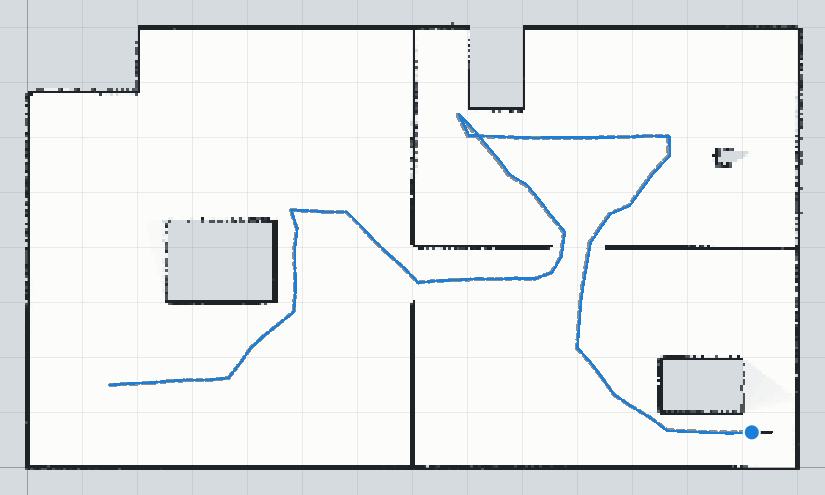
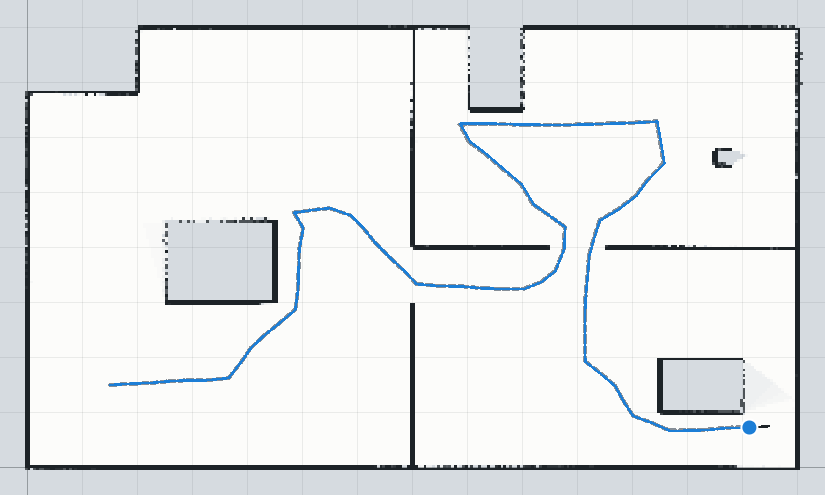
SLAM 4 à 7 fois plus rapide ; frontières par utilité en option
- Suivi du SLAM par Gauss-Newton sur la carte locale d'abord (1-2 ms), la
  multi-résolution seulement si moins de 70 % des points collent : salle
  253 -> 38 ms par scan à précision égale (0,6 cm), couloir 116 -> 33 ms
  (ATE 27 -> 30 cm, arrivée toujours à 2 cm).
- Exploration : choix de la frontière par utilité (Holz et al. 2010) en
  option ; pas de gain mesuré sur nos scènes, la plus proche reste le
  défaut. Banc d'essai relancé : 12 explorations sur 12 réussies.
- Docs : jour3 (amélioration du SLAM), journal, passation (dont le
  prototype Labo Carto dans ../carto-edu).

diff --git a/src/core/explore.js b/src/core/explore.js
@@ -6,7 +6,9 @@
 //      chaque cellule atteignable et chemin le plus court ;
 //   3. cellules frontières : libres, atteignables, avec une voisine inconnue (bord de ce qu'on a
 //      vu) ; regroupées en zones, les petites zones (bruit) sont ignorées ;
-//   4. but : la cellule la plus proche de la zone frontière la plus proche ;
+//   4. but : la zone frontière la plus proche (Yamauchi) ou, en option, la plus utile,
+//      longueur / (distance + 1 m) (Holz et al., 2010), et sa cellule la plus proche du robot ;
+//      sur nos scènes, l'utilité n'a pas raccourci le trajet (docs/jour3_explore.md) ;
 //   5. commande : le point le plus loin du chemin encore en vue directe (au plus `maxStep`) ;
 //      tourner vers lui si l'écart dépasse `turnTol`, sinon avancer, sans s'approcher de l'obstacle
 //      le plus proche droit devant dans le dernier scan (sécurité si la carte est en retard).
@@ -31,6 +33,7 @@ export const DEFAULT_EXPLORE = Object.freeze({
   maxRange: 12, // m : frontières plus loin du départ ignorées (faisceaux sortis par les vitres)
   startFree: 0.3, // m : autour du robot, on peut passer même si la carte n'est pas sûre (dégagement)
   maxTries: 12, // commandes vers un même but sans l'atteindre : but abandonné
+  selection: 'nearest', // 'nearest' : la plus proche ; 'utility' : longueur / (distance + 1 m)
 });
 
 const N4 = [
@@ -140,8 +143,9 @@ export function planExploration(grid, pose, points = [], home = pose, options = 
   const frontiers = zones.map((z) => ({ ...z.center, size: z.size }));
   if (!zones.length) return { done: true, reason: 'plus de frontière atteignable : carte terminée', path: [], frontiers };
 
-  // 4. zone la plus proche ; chemin du robot au but
-  const zone = zones.reduce((a, b) => (b.cost < a.cost ? b : a));
+  // 4. zone choisie ; chemin du robot au but
+  const utility = (z) => (o.selection === 'nearest' ? -z.cost : (z.size * res) / (z.cost * res + 1));
+  const zone = zones.reduce((a, b) => (utility(b) > utility(a) ? b : a));
   const cellsPath = [];
   for (let k = zone.goal; k >= 0; k = parent[k]) cellsPath.push(k);
   cellsPath.reverse();

diff --git a/src/core/slam.js b/src/core/slam.js
@@ -29,6 +29,8 @@ import { optimizePoseGraph } from './posegraph.js';
 export const DEFAULT_SLAM = Object.freeze({
   window: { xyRange: 0.5, thRange: 20 }, // recherche locale autour de la prédiction
   minInliers: 0.5, // part des points du scan sur la carte pour accepter le suivi
+  fastTracking: true, // suivi par Gauss-Newton d'abord, multi-résolution en secours
+  fastInliers: 0.7, // part des points sur la carte pour se contenter du suivi rapide
   relocalize: true, // relocalisation globale si le suivi échoue
   keyDist: 0.2, // m : nouveau scan clé après ce déplacement
   keyAngle: 10, // degrés : ou cette rotation
@@ -164,7 +166,13 @@ export class Slam {
     // 1. prédiction ; 2. suivi sur la carte locale
     const predicted = odom ? composePoses(this.last, odom) : { ...this.last };
     const ref = this.localReference();
-    const m = localize(ref, points, predicted, 'multires', this.o.window);
+    // suivi rapide d'abord (Gauss-Newton sur la carte locale, ~1 ms, à la manière de Hector SLAM) ;
+    // la recherche multi-résolution (~100 ms) seulement s'il ne colle pas assez
+    let m = this.o.fastTracking ? localize(ref, points, predicted, 'gaussnewton') : null;
+    if (!m || m.inliers < this.o.fastInliers) {
+      const mr = localize(ref, points, predicted, 'multires', this.o.window);
+      if (!m || mr.inliers >= m.inliers) m = mr;
+    }
     const i = localize(ref, points, m.pose, 'icp');
     let best = i.inliers >= m.inliers ? i : m;
     let mode = 'suivi';

diff --git a/docs/passation.md b/docs/passation.md
@@ -7,7 +7,7 @@ Fichier à lire en premier pour reprendre le projet (personne ou IA). Mis à jou
   historique, outils + instructions, synthèse personnelle).
 - Langage : JavaScript pur (Node 22+, aucune dépendance) ; application web `node serve.mjs`
   (port 8080, ou 8081 s'il est pris) ; tests `node --test "test/*.test.js"` (110 tests, tous verts
-  le 4 novembre ; 118 depuis l'exploration autonome).
+  le 4 novembre ; 124 depuis les méthodes de l'état de l'art).
 - Le dossier `ld06-slam/ld06-slam/` (non suivi) est un clone vide (« Initial commit ») sans
   rapport avec le projet : à ignorer ou supprimer.
 
@@ -23,10 +23,20 @@ Fichier à lire en premier pour reprendre le projet (personne ou IA). Mis à jou
 | 2 | Localisation sur grid map, carte vectorielle, scan de référence + évaluation chiffrée | Fait : 6 méthodes (brute force, gradient, multi-résolution, probabiliste, ICP, calcul direct), banc d'essai simulé et réel, sensibilité à l'initialisation, localisation globale | `src/core/localization.js`, `globalloc.js`, `docs/jour2*.md` |
 | 3 | SLAM (localisation + cartographie simultanées) | Fait : suivi sur carte locale, relocalisation, scans clés, graphe de poses Gauss-Newton avec fermeture de boucle ; validé en simulation (salle : 0,6 cm ; couloir 54 m : 27 cm avec boucle) | `src/core/slam.js`, `posegraph.js`, `docs/jour3*.md` |
 | 3 | Carte complète de la salle | Carte de référence faite à partir des 18 scans réels recalés (`data/reference/`) ; **pas encore** produite par le SLAM lui-même | voir « À faire » |
-| 3 | Bonus : déplacer le robot automatiquement | Fait en simulation : exploration par frontières sur la carte du SLAM (6 départs sur 6 réussis, couverture 98-100 %, 0 collision, 1-2 cm d'erreur) ; pilotage Wi-Fi du vrai robot (ESP32RobotControl) avec étalonnage automatique des vitesses, vérifié avec un faux robot (`scripts/mock-robot.mjs`) ; **pas encore essayé sur le vrai robot** | `src/core/explore.js`, `docs/jour3.md` (§ Bonus), `docs/jour3_explore.md` |
+| 3 | Bonus : déplacer le robot automatiquement | Fait en simulation : exploration par frontières sur la carte du SLAM (6 départs sur 6 réussis, couverture 99,6-100 %, 0 collision, 1-2 cm d'erreur) ; pilotage Wi-Fi du vrai robot (ESP32RobotControl) avec étalonnage automatique des vitesses, vérifié avec un faux robot (`scripts/mock-robot.mjs`) ; **pas encore essayé sur le vrai robot** | `src/core/explore.js`, `docs/jour3.md` (§ Bonus), `docs/jour3_explore.md` |
 
 Comptes rendus : `docs/jour1.md`, `docs/jour2.md`, `docs/jour3.md` ; algorithmes expliqués :
-`docs/algorithmes.md` ; erreurs rencontrées et corrections : `docs/journal.md`.
+`docs/algorithmes.md` ; erreurs rencontrées et corrections : `docs/journal.md` ; **état de l'art**
+(articles, thèses, projets GitHub) : `docs/etat_de_l_art.md`.
+
+Ajouts du 4 novembre (soir), après l'état de l'art :
+- 3 méthodes de localisation de plus (`src/core/advancedmatch.js`) : PL-ICP (Censi 2008), NDT
+  (Biber 2003), Gauss-Newton sur la carte (Hector 2011), passées dans les bancs d'essai du jour 2
+  (`docs/jour2.md`, section « Ajout ») ; le Gauss-Newton réussit 100 % en simulation en 1-2 ms ;
+- SLAM 4 à 7 fois plus rapide : suivi par Gauss-Newton d'abord, multi-résolution en secours
+  (`docs/jour3.md`, section « Amélioration du SLAM ») ;
+- export de la grid map au format ROS (PGM + YAML) dans l'appli et en ligne de commande ;
+- exploration : choix de la frontière par utilité essayé, sans gain, gardé en option.
 
 Constat important (jour 3) : sur les 18 clichés réels (épars, deux hauteurs, salle presque
 symétrique), un SLAM parti de zéro est ambigu. Il faut un **trajet continu au sol**, un scan
@@ -60,14 +70,15 @@ le vrai robot.
 
 ## Idée pour plus tard : une application pour aider les étudiants
 
-Proposée par Yohan le 4 novembre, **à faire après le rendu du TP** (ne pas mélanger avec le dépôt
-du module tant que le rendu n'est pas fait).
+Proposée par Yohan le 4 novembre. **Commencée** le 4 novembre dans le dossier voisin
+`../carto-edu` (dépôt git séparé, local, pas encore sur GitHub) : état de l'art des outils
+pédagogiques (`ETAT_DE_L_ART.md`), conception et parcours de 9 fiches (`CONCEPTION.md`), prototype
+web avec 4 fiches (lidar → points, grid map pas à pas, ICP pas à pas, filtre particulaire avec
+MCL augmenté). Lancer : `node serve.mjs` dans `carto-edu`, puis http://localhost:8090/.
+Son dossier `core/` est une copie de `src/core` : la recopier après chaque changement du TP.
 
 - Idée : réutiliser `src/core/` et l'application web pour un outil pédagogique (visualiser pas à
   pas grid map, segments, scan matching, SLAM ; charger ses propres scans LD06 ; exercices).
-- Préalable : un **état de l'art** de ce qui existe déjà (outils pédagogiques et simulateurs
-  SLAM 2D en ligne, ROS/rviz, Gazebo, les outils du module MapTool et RobotControl, cours
-  interactifs, bibliothèques comme les implémentations Python de PythonRobotics, etc.) pour
-  trouver ce qui manque vraiment avant de coder.
-- À décider avec Yohan : public visé (ce module seulement ou plus large), web seul ou avec le
-  robot, dépôt séparé.
+- Suite : fiches 3, 6, 7, 8, 9 (segments, comparaison des méthodes, SLAM, exploration, mes
+  données), exercices vérifiés automatiquement, publication (GitHub Pages) après le rendu.
+- À décider avec Yohan : public visé (ce module seulement ou plus large), nom, dépôt GitHub.

diff --git a/docs/jour3.md b/docs/jour3.md
@@ -123,16 +123,22 @@ dérive de cap par mètre), le SLAM ne reçoit que la commande.
 
 | Scène | Départs réussis | Couverture | Collisions | Erreur de pose (ATE) | Pas / distance |
 | --- | --- | --- | --- | --- | --- |
-| Salle de classe 10 m × 8 m | 3 / 3 | 100 % | 0 | 0,7 à 1,2 cm | 30 à 38 pas, 7 à 9 m |
-| Trois pièces reliées par des portes de 1 m | 3 / 3 | 98,3 à 100 % | 0 | 1,5 à 1,9 cm | 102 à 134 pas, 27 à 33 m |
+| Salle de classe 10 m × 8 m | 3 / 3 | 100 % | 0 | 0,7 à 1,9 cm | 33 à 39 pas, 8 à 10 m |
+| Trois pièces reliées par des portes de 1 m | 3 / 3 | 99,6 à 100 % | 0 | 1,0 à 1,1 cm | 104 à 149 pas, 27 à 34 m |
+
+(Chiffres avec le suivi rapide du SLAM, voir plus bas ; 55 à 150 ms par pas, SLAM compris.)
 
 | Trois pièces : exploration en cours (frontières en vert, chemin prévu en orange) | Carte finale |
 | --- | --- |
 | ![en cours](img/j3_explo_pieces_en_cours.png) | ![finale](img/j3_explo_pieces.png) |
 
 - La frontière la plus proche n'est pas toujours la plus utile : le robot fait parfois des
-  allers-retours entre deux pièces (trajet de 27 à 33 m pour une surface de 112 m²). Choisir la
-  zone selon sa taille et sa distance réduirait le trajet.
+  allers-retours entre deux pièces (trajet de 27 à 34 m pour une surface de 112 m²). Choisir la
+  zone selon son utilité, longueur / (distance + 1 m) (Holz et al., 2010), **ne raccourcit pas**
+  le trajet en moyenne (94 m au total sur les trois départs, contre 94 m) : il gagne sur certains
+  départs, perd sur d'autres ; une grande frontière lointaine attire le robot avant qu'il ait fini
+  la pièce où il est, et il doit y revenir. Gardé en option ; un vrai gain demanderait de tenir
+  compte de la pièce en cours ou de planifier l'ordre de visite.
 - Le robot passe par les portes de 1 m sans les toucher : 1 m − 2 × 25 cm laisse un couloir de
   50 cm au centre du robot.
 
@@ -155,3 +161,23 @@ parties de 0,25 m/s et 90 °/s, convergent vers 0,31 m/s et 72 °/s pour des vit
 Limites attendues : les vitres (faisceaux qui sortent de la salle : frontières ignorées au-delà de
 12 m du départ), les pieds de chaises et de tables fins, vus par peu de points, et la durée des
 commandes, très approximative au début.
+
+## Amélioration du SLAM : suivi rapide (4 novembre)
+
+D'après le banc d'essai du jour 2, le Gauss-Newton sur la carte (à la manière de Hector SLAM) se
+recale en 1 à 2 ms. Le suivi du SLAM l'essaie d'abord, depuis la prédiction ; la recherche
+multi-résolution (~100 ms) ne sert plus que si moins de 70 % des points collent à la carte locale
+(`fastTracking`, `fastInliers` dans `slam.js`).
+
+| Scène | Avant : ATE / temps par scan | Après : ATE / temps par scan |
+| --- | --- | --- |
+| Salle, avec odométrie | 0,7 cm / 253 ms | 0,6 cm / **38 ms** |
+| Salle, sans odométrie | 0,6 cm / 263 ms | 0,6 cm / **68 ms** |
+| Couloir 54 m, boucle et précision par direction | 27,1 cm / 116 ms | 30,1 cm / **33 ms** |
+
+Le SLAM est **4 à 7 fois plus rapide** pour la même précision dans la salle ; dans le long couloir,
+l'erreur moyenne augmente un peu (27 → 30 cm, arrivée toujours à 2 cm) : le Gauss-Newton accepte
+des recalages un peu moins justes que la multi-résolution suivie de l'ICP. Pour le robot réel, la
+vitesse compte : un scan traité en 40 ms laisse le temps de suivre le lidar à 10 tours par seconde.
+Le tableau « Résultats sur trajets simulés » plus haut est celui d'avant ce changement ;
+[jour3_slam.md](jour3_slam.md) donne les chiffres actuels.

diff --git a/docs/jour3_explore.md b/docs/jour3_explore.md
@@ -5,22 +5,30 @@ commandes (méthode des frontières sur la grid map du SLAM). Mouvement vrai : 1
 la distance et l'angle, 5 cm de glissement latéral et 1,5° de dérive de cap par mètre ; le SLAM
 ne reçoit que la commande. **Couverture** : part du sol libre de la scène (grille de 10 cm, hors
 meubles et murs) que la carte a vue libre. **Réussite** : couverture ≥ 95 % sans collision.
+**Choix de la frontière** : la plus proche (Yamauchi 1997) ou la plus utile, longueur / (distance + 1 m)
+(Holz et al. 2010).
 
 ## A. Salle de classe simulée (10 m × 8 m)
 
-| Départ | Pas | Distance | Couverture | Collisions | ATE | Erreur finale | Boucles | Temps / pas | Réussite |
-| --- | --- | --- | --- | --- | --- | --- | --- | --- | --- |
-| (1.5 ; 2.2 ; 0°) | 30 | 7.4 m | **100.0 %** | 0 | 0.9 cm | 0.9 cm | 1 | 274 ms | oui |
-| (8 ; 6 ; 180°) | 38 | 8.9 m | **100.0 %** | 0 | 0.7 cm | 1.0 cm | 1 | 244 ms | oui |
-| (5 ; 1 ; 90°) | 34 | 8.6 m | **100.0 %** | 0 | 1.2 cm | 1.0 cm | 0 | 237 ms | oui |
+| Choix de la frontière | Départ | Pas | Distance | Couverture | Collisions | ATE | Erreur finale | Boucles | Temps / pas | Réussite |
+| --- | --- | --- | --- | --- | --- | --- | --- | --- | --- | --- |
+| la plus proche | (1.5 ; 2.2 ; 0°) | 33 | 8.0 m | **100.0 %** | 0 | 0.7 cm | 1.5 cm | 2 | 79 ms | oui |
+| la plus proche | (8 ; 6 ; 180°) | 35 | 8.4 m | **100.0 %** | 0 | 1.9 cm | 3.4 cm | 0 | 56 ms | oui |
+| la plus proche | (5 ; 1 ; 90°) | 39 | 10.1 m | **100.0 %** | 0 | 0.7 cm | 1.3 cm | 0 | 96 ms | oui |
+| utilité | (1.5 ; 2.2 ; 0°) | 22 | 6.0 m | **100.0 %** | 0 | 1.0 cm | 1.7 cm | 0 | 55 ms | oui |
+| utilité | (8 ; 6 ; 180°) | 34 | 8.8 m | **100.0 %** | 0 | 2.7 cm | 4.8 cm | 0 | 54 ms | oui |
+| utilité | (5 ; 1 ; 90°) | 39 | 10.1 m | **100.0 %** | 0 | 0.7 cm | 1.3 cm | 0 | 96 ms | oui |
 
 ## B. Trois pièces reliées par des portes de 1 m (14 m × 8 m)
 
-| Départ | Pas | Distance | Couverture | Collisions | ATE | Erreur finale | Boucles | Temps / pas | Réussite |
-| --- | --- | --- | --- | --- | --- | --- | --- | --- | --- |
-| (1.5 ; 1.5 ; 0°) | 102 | 27.0 m | **100.0 %** | 0 | 1.9 cm | 2.0 cm | 8 | 347 ms | oui |
-| (5.5 ; 6.5 ; -90°) | 128 | 33.1 m | **99.9 %** | 0 | 1.9 cm | 1.0 cm | 14 | 348 ms | oui |
-| (12 ; 6.5 ; 180°) | 134 | 30.0 m | **98.3 %** | 0 | 1.5 cm | 0.9 cm | 15 | 352 ms | oui |
+| Choix de la frontière | Départ | Pas | Distance | Couverture | Collisions | ATE | Erreur finale | Boucles | Temps / pas | Réussite |
+| --- | --- | --- | --- | --- | --- | --- | --- | --- | --- | --- |
+| la plus proche | (1.5 ; 1.5 ; 0°) | 104 | 26.7 m | **100.0 %** | 0 | 1.1 cm | 1.1 cm | 8 | 147 ms | oui |
+| la plus proche | (5.5 ; 6.5 ; -90°) | 120 | 32.8 m | **100.0 %** | 0 | 1.0 cm | 0.6 cm | 12 | 138 ms | oui |
+| la plus proche | (12 ; 6.5 ; 180°) | 149 | 34.4 m | **99.6 %** | 0 | 1.0 cm | 0.4 cm | 18 | 124 ms | oui |
+| utilité | (1.5 ; 1.5 ; 0°) | 112 | 29.7 m | **100.0 %** | 0 | 1.3 cm | 3.8 cm | 7 | 98 ms | oui |
+| utilité | (5.5 ; 6.5 ; -90°) | 144 | 34.6 m | **99.9 %** | 0 | 1.7 cm | 3.1 cm | 15 | 153 ms | oui |
+| utilité | (12 ; 6.5 ; 180°) | 125 | 30.1 m | **98.5 %** | 0 | 1.2 cm | 1.7 cm | 13 | 128 ms | oui |
 
 Figures (premier départ de chaque scène) : grid map construite par le SLAM, trajectoire vraie
 (gris pointillé) et estimée (bleu) ; sur la vue en cours : zones frontières (vert, taille selon

diff --git a/docs/jour3_slam.md b/docs/jour3_slam.md
@@ -12,8 +12,8 @@ sur toute la trajectoire.
 | Méthode | ATE | Erreur max | Arrivée | Scans clés | Relocalisations | Boucles | Temps / scan |
 | --- | --- | --- | --- | --- | --- | --- | --- |
 | Odométrie seule | 56.4 cm | 90.8 cm | 78.3 cm / 16.1° | – | – | – | – |
-| SLAM sans odométrie | **0.6 cm** | 1.3 cm | 1.0 cm / 0.3° | 75 | 3 | 3 (correction 1 cm, 0 cm, 1 cm) | 263 ms |
-| SLAM avec odométrie | **0.7 cm** | 1.8 cm | 1.8 cm / 0.3° | 75 | 0 | 3 (correction 1 cm, 0 cm, 2 cm) | 253 ms |
+| SLAM sans odométrie | **0.6 cm** | 1.9 cm | 1.9 cm / 0.3° | 75 | 3 | 3 (correction 0 cm, 1 cm, 2 cm) | 68 ms |
+| SLAM avec odométrie | **0.6 cm** | 1.8 cm | 1.8 cm / 0.3° | 75 | 0 | 3 (correction 0 cm, 1 cm, 2 cm) | 38 ms |
 
 ## B. Couloir en boucle de 54 m (lidar limité à 4 m)
 
@@ -22,9 +22,9 @@ sur toute la trajectoire.
 | Méthode | ATE | Erreur max | Arrivée | Scans clés | Relocalisations | Boucles | Temps / scan |
 | --- | --- | --- | --- | --- | --- | --- | --- |
 | Odométrie seule | 726.8 cm | 1465.3 cm | 1445.6 cm / 87.6° | – | – | – | – |
-| SLAM sans fermeture de boucle | **44.0 cm** | 54.6 cm | 44.6 cm / 0.4° | 188 | 0 | 0 | 184 ms |
-| SLAM + fermeture de boucle (précisions fixes) | **29.9 cm** | 53.0 cm | 1.5 cm / 0.0° | 188 | 0 | 2 (correction 47 cm, 5 cm) | 118 ms |
-| SLAM + fermeture de boucle (précision par direction) | **27.1 cm** | 47.1 cm | 1.4 cm / 0.2° | 188 | 0 | 2 (correction 47 cm, 4 cm) | 116 ms |
+| SLAM sans fermeture de boucle | **46.1 cm** | 63.5 cm | 42.5 cm / 1.5° | 188 | 0 | 0 | 22 ms |
+| SLAM + fermeture de boucle (précisions fixes) | **31.5 cm** | 56.0 cm | 2.3 cm / 0.0° | 188 | 0 | 2 (correction 41 cm, 9 cm) | 32 ms |
+| SLAM + fermeture de boucle (précision par direction) | **30.1 cm** | 51.7 cm | 2.0 cm / 0.1° | 188 | 0 | 2 (correction 41 cm, 9 cm) | 33 ms |
 
 Figures : points des scans clés à leur pose estimée (noir), trajectoire vraie (gris pointillé),
 odométrie seule (orange), SLAM (bleu), liens de fermeture de boucle (rouge).

diff --git a/docs/journal.md b/docs/journal.md
@@ -168,6 +168,15 @@ direct 10/18 → 16/18.
 | Scans clés de l'exploration avec le robot absents de la liste | La liste n'était pas redessinée | Sélection du nouveau scan (comme le SLAM en direct) |
 | Test « le but est la porte » en échec | La frontière la plus proche était un petit trou de la carte dans un coin de la première pièce : comportement normal | Test reformulé : la seconde pièce est vue comme frontière, le but est la zone la plus proche, le chemin ne traverse pas de mur |
 
+## Mercredi 4 novembre (soir) — méthodes de l'état de l'art
+
+| Problème | Cause | Correction |
+| --- | --- | --- |
+| NDT bloqué près de la pose de départ (erreurs de 5 à 28 cm, angle inchangé) | Loin du minimum, la hessienne du score NDT n'est pas définie positive : le pas de Newton remonte, la recherche linéaire échoue | Levenberg-Marquardt : (H + λ·diag) d = −g, λ augmenté tant que le score ne baisse pas : 1 à 17 mm |
+| PL-ICP faible sur la grid map (74 %) | Normales estimées sur des centres de cellules alignés tous les 5 cm : bruitées | Gardé tel quel, documenté : sur une grid map, préférer le Gauss-Newton |
+| Choix des frontières par utilité sans gain | Une grande frontière lointaine attire le robot avant qu'il ait fini sa pièce | Gardé en option, « la plus proche » reste le défaut |
+| SLAM lent (250 ms par scan) | Recherche multi-résolution à chaque scan | Suivi par Gauss-Newton d'abord (1-2 ms), multi-résolution en secours : 33 à 68 ms |
+
 Ajouts après lecture des documents du cours : localisation sur trois références et six
 méthodes (dont le calcul direct inspiré de l'article « Mars Attacks! »), coins, oubli des
 segments rarement vus, banc d'essai chiffré du jour 2.
